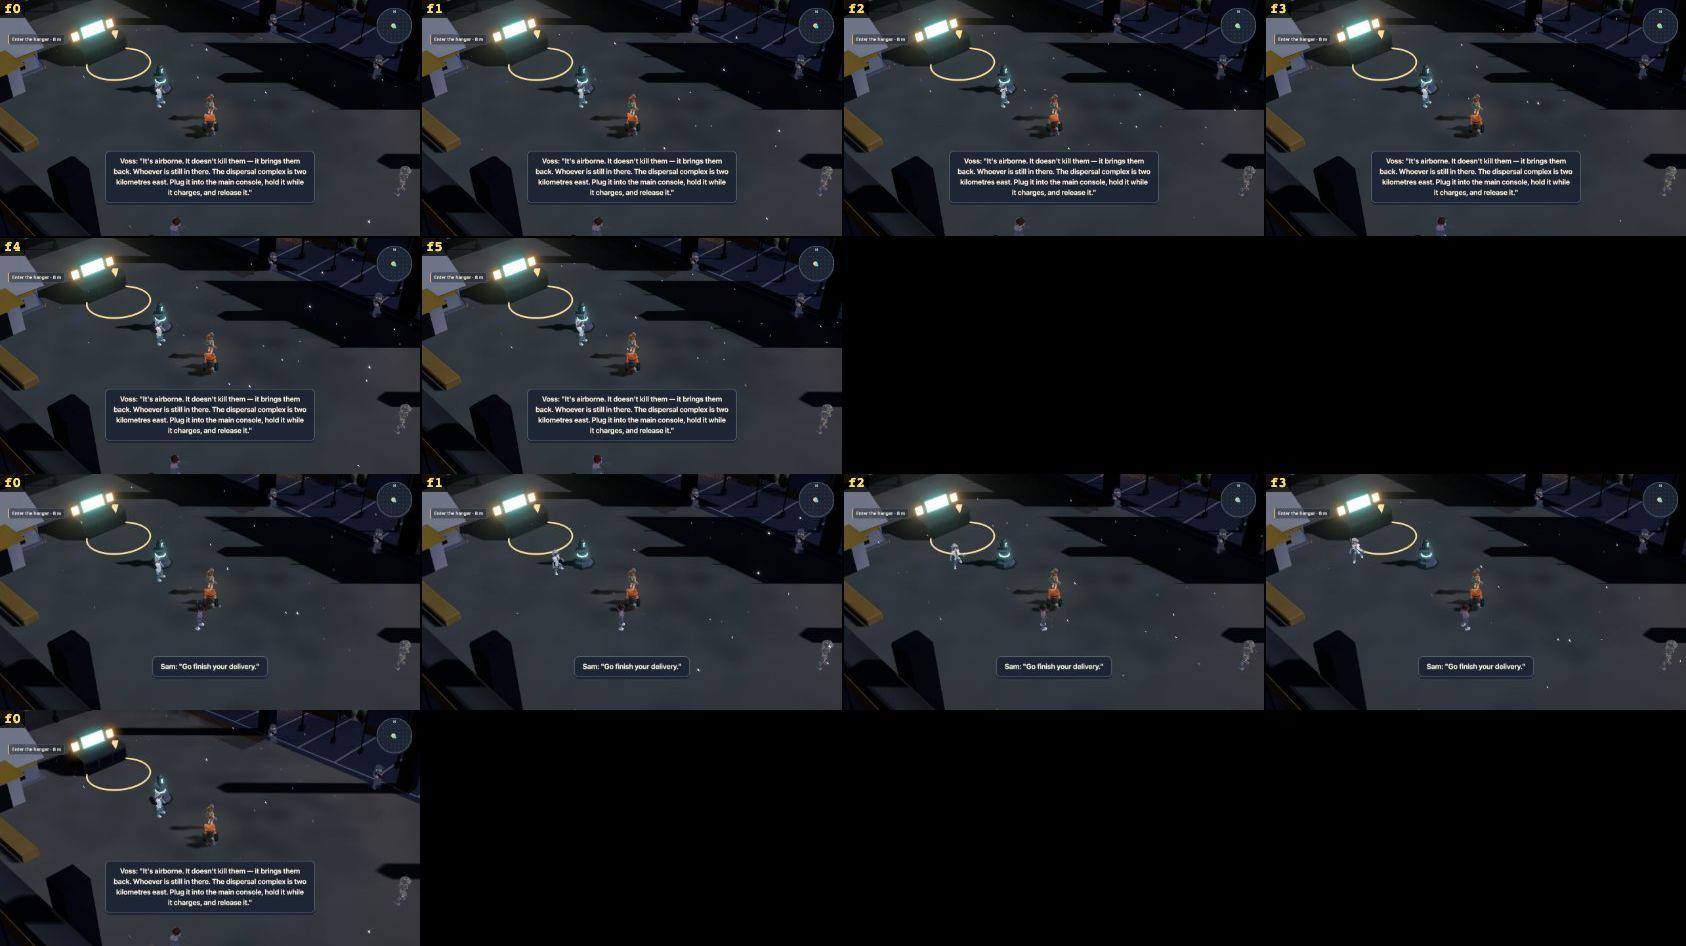
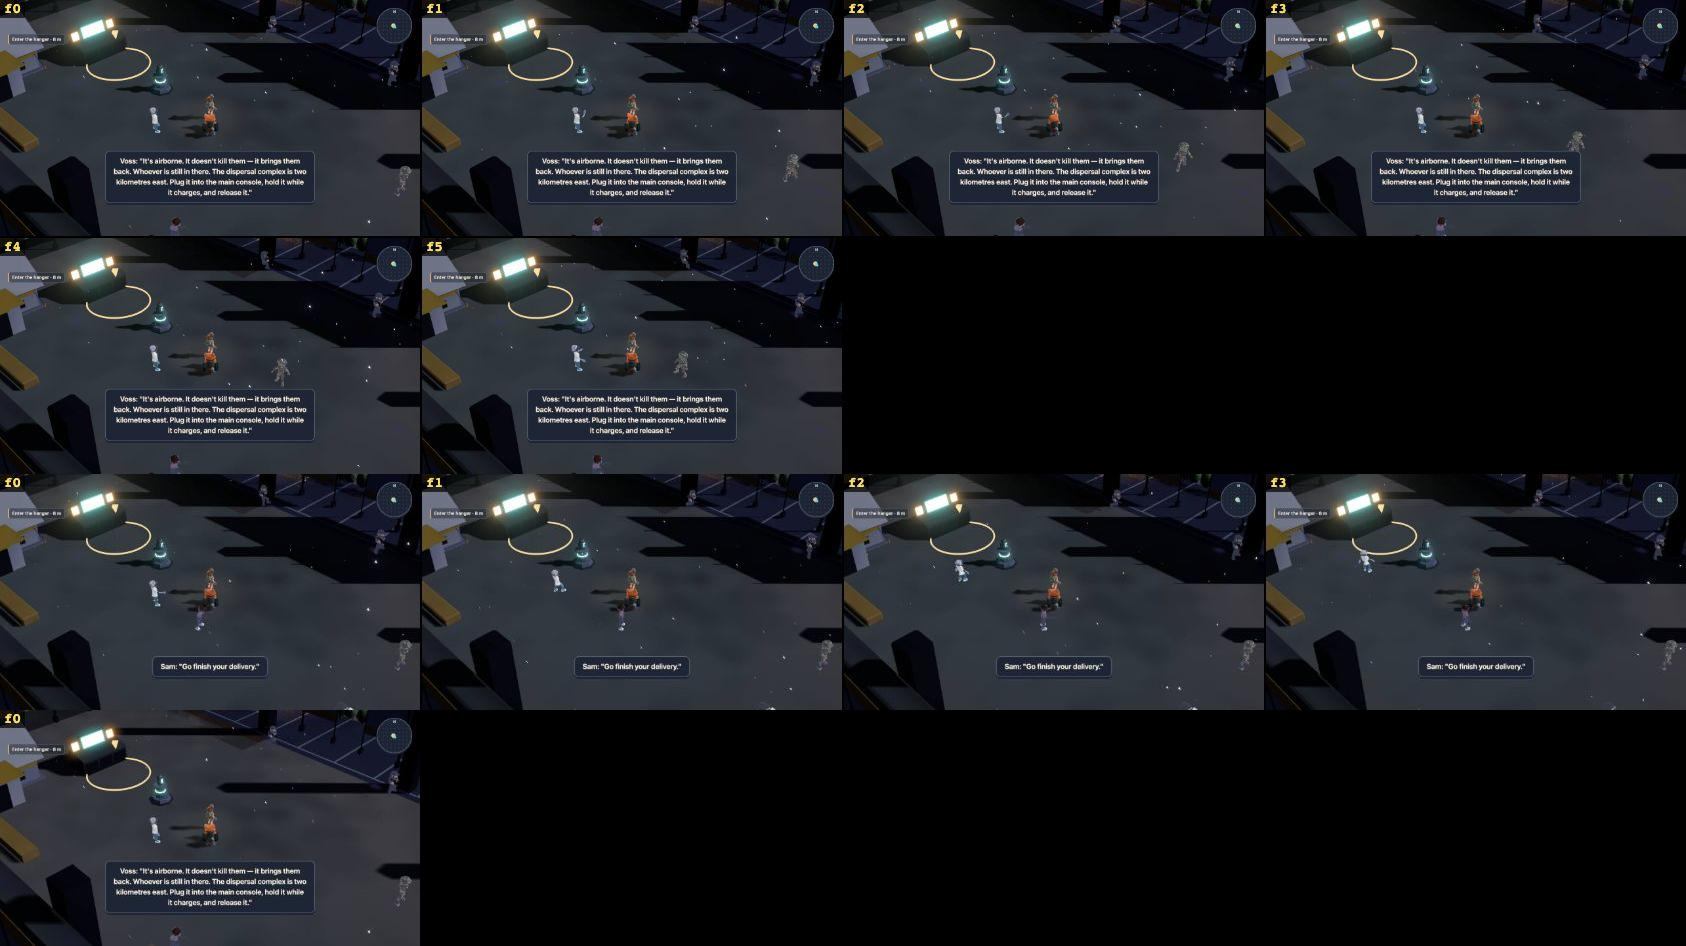
Keep Voss clear of hangar handoff props

diff --git a/src/render/npc/CivilianCrowd.ts b/src/render/npc/CivilianCrowd.ts
@@ -2,6 +2,7 @@ import { crowdTexture, crowdSurfaceBindings, type CrowdSurfaceBinding } from '..
 import { waitingIdle, idleOffset } from './waitingIdle';
 import { hangarCastMember, joiningHangarConversation, speakingNpc, talkClip } from './talkingNpc';
 import { l10ClosingPose } from '../characters/l10Closing';
+import { cureHangar } from '../../data/l10Story';
 import { resolveCrowdAppearance, markCrowdAppearance, crowdShirt, writeCrowdAppearance, renderedCrowdLook, crowdVertexLayout } from '../characters/CrowdAppearance';
 import type { CrowdAccessories } from '../characters/CrowdAccessories';
 import { infectedContactDistance } from '../../sim/ai/CharacterSeparation';
@@ -245,7 +246,17 @@ class CivilianBatch extends Group {
       if (conversation) {
         const player = this.world.entities.get(1)!.transform;
         const dx = e.transform.x - player.x, dz = e.transform.z - player.z, length = Math.hypot(dx, dz) || 1;
-        const goal = (speaking || joining) && length > 3 ? { x: player.x + dx / length * 3, z: player.z + dz / length * 3 } : e.transform;
+        let goal = (speaking || joining) && length > 3 ? { x: player.x + dx / length * 3, z: player.z + dz / length * 3 } : e.transform;
+        if (this.world.scenario === 'L10' && this.world.missions?.state.actors['hangar-voss'] === e.id && (speaking || joining) && length > 3) {
+          // Keep the handoff props from masking her when the courier stands beside the canister.
+          for (const angle of [0, .8, -.8, 1.4, -1.4]) {
+            const cos = Math.cos(angle), sin = Math.sin(angle);
+            const candidate = { x: player.x + (dx * cos - dz * sin) / length * 3, z: player.z + (dx * sin + dz * cos) / length * 3 };
+            if ([cureHangar.canister, cureHangar.terminal].some(prop => Math.hypot(candidate.x - prop.x, candidate.z - prop.z) < 2.2)) continue;
+            if (this.world.infected?.nav.clear(candidate.x, candidate.z, .35) === false) continue;
+            goal = candidate; break;
+          }
+        }
         const gx = goal.x - conversation.x, gz = goal.z - conversation.z, remaining = Math.hypot(gx, gz);
         const dt = Math.max(0, Math.min(1, (this.world.tick - conversation.tick) / 60));
         const step = Math.min(remaining, dt * 1.5);

diff --git a/docs/reports/s182-talkers/README.md b/docs/reports/s182-talkers/README.md
@@ -2,7 +2,7 @@
 
 The controlled WebGL2 fixture uses HIGH and LOW, zoom 1.5, and steps the conversation before sampling. [Conversation sheet](conversations.jpg): top six frames are Voss over 6 seconds on HIGH; middle four are Sam over 3.6 seconds on HIGH; bottom is Voss on LOW. Subtitles are visible. The HIGH Sam sequence shows him near the courier. Voss is near the courier in the HIGH sequence; the figures are too small to judge the quality of her gaze and hand movement confidently. These fixtures do not establish natural-play framing or obstacle avoidance.
 
-The full-resolution HIGH frame at six seconds, regenerated with `tools/qa/s182-talkers-capture.ts`, shows Voss with an arm raised beside the console. Her figure overlaps the console and her gaze direction cannot be judged reliably at this scale; the eastward indication remains unverified.
+The full-resolution HIGH frame at six seconds, regenerated with `tools/qa/s182-talkers-capture.ts`, shows Voss clear of the canister, turned toward the courier with an arm raised. Her precise gaze direction and the eastward indication remain difficult to judge at this scale.
 
 [Ruiz HIGH](ruiz-talking-high.jpg) shows him to the courier's right during his subtitle after a controlled lead-in. The contact sheet is too small to verify his gaze and gesture quality.
 
